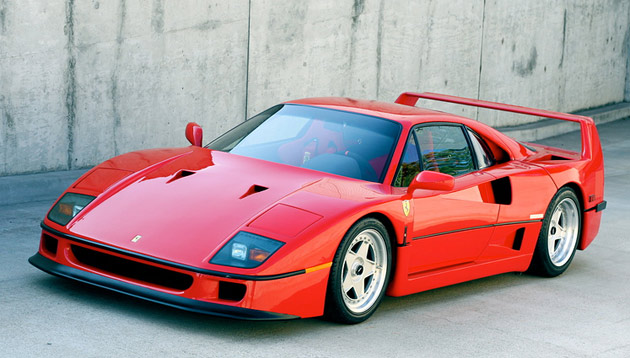
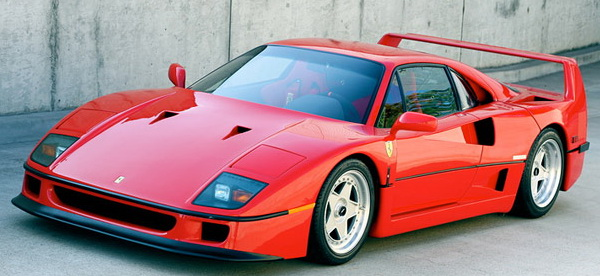
Größe der Bilder angepasst.

diff --git a/src/application/Kartenstapel.java b/src/application/Kartenstapel.java
@@ -23,7 +23,7 @@ import java.util.Collections;
 	Karte a11 = new Karte("VW Polo 2 GT","/Img/VWPolo2GT.jpg", "320", "190","11.3","1300","10");
 	Karte a12 = new Karte("Porsche 911 Turbo S","/Img/Porsch911_TurboS.jpg","580","330","12","3800","3");
 	Karte a13 = new Karte("Ferrari_F40","/Img/FerrariF40.jpg","521","325", "18","4706","3.7");
-	Karte a14 = new Karte("Mitsubishi_Lancer_WRC","/img/Mitsubishi_Lancer_WRC.jpg","300","280", "15","1999","4.4");
+	Karte a14 = new Karte("Mitsubishi_Lancer_WRC","/Img/Mitsubishi_Lancer_WRC.jpg","300","280", "15","1999","4.4");
 	Karte a15 = new Karte("Skoda_Fabia_WRC","/Img/Skoda_Fabia_WRC.jpg","295","275","17","1999","4.6");
 	Karte a16 = new Karte("Opel_Vectra_GTS","/img/Opel_Vectra_GTS.jpg","465","285", "21","3998","4.4");
 	
